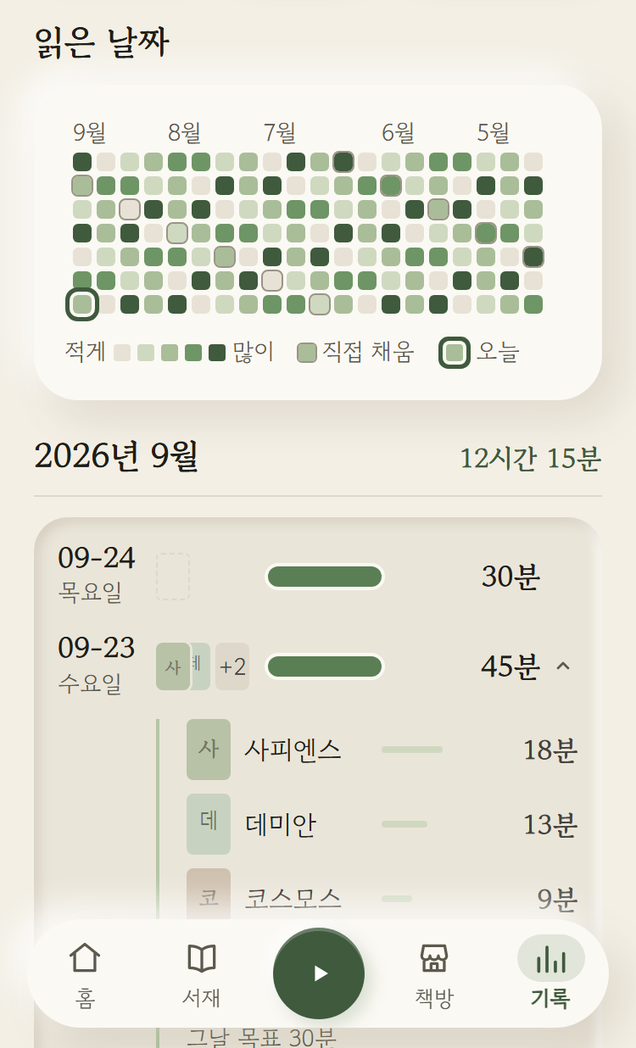
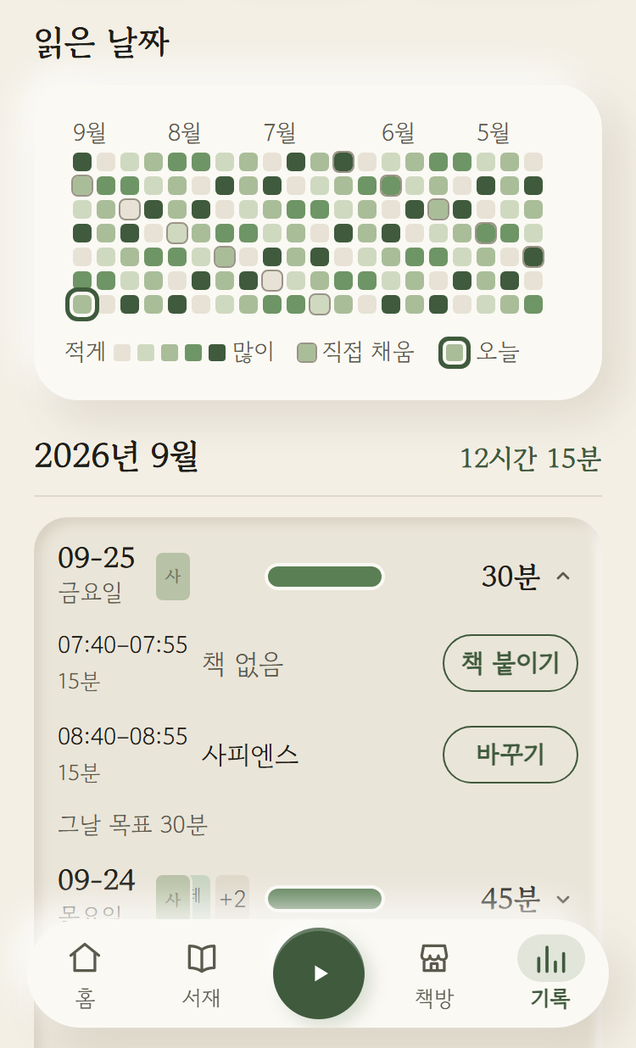
docs(미니앱): 스토어 스크린샷 재촬영 — 기록 탭 잔디 + 「측정 한 건씩」 펼침 (#1204)
R2(#1203)로 기록 펼침이 측정 한 건씩 「시각/길이 · 책 · [바꾸기]/[책 붙이기]」
줄로 바뀌어 04-history가 낡았다. 사용자 결정 「잔디도 살리기」대로 잔디와 펼친 날을
한 컷에 담는다.

- 촬영기 04: 측정 줄 >= 2 · [책 붙이기] >= 1이면서 잔디 제목부터 그 날 바닥까지가
  탭바 16px 위에 드는 첫 날을 펼친다. 없으면 죽는다(잔디를 내주는 구도로 안 물러선다).
- 목 픽스처: 그런 날은 목록 첫 줄뿐이라(375x618 실측 여유 526px, 두 건짜리를 어제에
  둬도 약 552px) 오늘을 두 건(책 없음 + 사피엔스, 합 30분 그대로)으로 나눴다.
- 실측: 잔디 제목 12 · 펼친 날 머리 319 · 그날 목표 바닥 497 · 탭바 542.
- 04와 그걸 얹은 10만 갱신. 01 바이트째 동일, 02·08은 드리프트뿐이라 되돌렸다.

Session-Model: claude-opus-5-5

diff --git a/miniapp/src/dev-mock.ts b/miniapp/src/dev-mock.ts
@@ -295,7 +295,10 @@ const clockOf = (iso: string): string => new Date(iso).toTimeString().slice(0, 5
  */
 function readingSessionsAt(offset: number): SessionRow[] {
   const total = LEVELS[offset % LEVELS.length] * 900;
-  const n = total === 0 ? 0 : offset === 1 ? 5 : 1 + (offset % 3);
+  // 오늘(0)은 두 건 — 책 없음 + 책 한 권. 스토어 컷 04가 잔디와 「측정 두 줄 · [책 붙이기]」를 한 컷에 담을 수 있는
+  // 날은 목록 첫 줄뿐이다(한 줄 아래인 어제에 두 줄을 둬도 잔디 제목부터 552px > 탭바 위 526px, 375×618 실측).
+  // 합은 그대로라 잔디·홈은 안 움직인다(홈은 이 줄을 안 읽는다).
+  const n = total === 0 ? 0 : offset === 1 ? 5 : offset === 0 ? 2 : 1 + (offset % 3);
   const seconds = Array.from({ length: n }, () => Math.floor(total / n));
   if (n > 0) seconds[n - 1] += total - seconds.reduce((a, b) => a + b, 0);
   if (n >= 2 && offset % 4 === 2) {

diff --git a/claude-docs/changelog.md b/claude-docs/changelog.md
@@ -1039,3 +1039,4 @@
 | 2026-09-25 | **chore(트러블슈팅): 승격 표시 `promoted:` 소급 18건** — 전역 재발 스캐너 보고서의 「승격 표시 드리프트」 19건을 한 건씩 판정했다: 전역 파일(`~/.claude`)이 그 T를 룰·스킬·원칙의 **근거**로 인용했는지(사례 언급이 아니라). 근거 18건(T-093·103·110·153·154·172·173·179·184·199·201·209·218·236·243·244·246·250)은 프론트매터에 `promoted: <전역 경로>`를 달고 허브 목차를 재생성했다(`-Check` OK 253). T-254는 `hookify/warn-vitest-basic-reporter.md`가 다른 원인(vitest 4 `basic` 리포터 제거)의 룰 본문에서 하네스 오판 사례로만 들어 비근거로 두었다. |
 | 2026-09-25 | **chore(트러블슈팅): 승격 표시 `promoted:` 소급 19건** — 전역 재발 스캐너 보고서의 「승격 표시 드리프트」 19건을 한 건씩 판정했다: 전역 파일(`~/.claude`)이 그 T를 룰·스킬·원칙의 **근거**로 인용했는지(사례 언급이 아니라). 19건 모두(T-093·103·110·153·154·172·173·179·184·199·201·209·218·236·243·244·246·250·254) 근거라 프론트매터에 `promoted: <전역 경로>`를 달고 허브 목차를 재생성했다(`-Check` OK 253). T-254는 처음에 비근거(룰 발동 조건은 vitest 4 `basic` 리포터 제거)로 두었다가 리뷰에서 뒤집었다 — `hookify/warn-vitest-basic-reporter.md` 본문이 T-254에서 온 일반 원칙(돌연변이 결론은 exit code가 아니라 결과 파일의 실패로, 「전부 사살」은 하네스 고장 신호)을 싣고, `docs/claude-md-reference.md`의 돌연변이 절차 승격 기록이 T-254를 근거 사고로 명시한다. |
 | 2026-09-25 | **feat(미니앱): 기록에서 측정 한 건씩 책 붙이기·바꾸기 (독서·공부)** — R2 PR-5(미니앱 기록). 책 없이 잰 측정은 종료 직후 창을 닫으면 미니앱에선 다시 붙일 자리가 없었다. 이제 기록 탭(독서·공부) 날짜를 펼치면 측정 한 건씩 「시각/시간 · 책 · [책 붙이기]/[바꾸기]」가 서고(책 없는 날도 펼친다 · 수동 기록 「직접 기록」 · 60초 미만 「1분 미만」 · 후보 0권이면 버튼 대신 안내), 누르면 교체 시트를 물음만 바꿔 재사용해 붙이고·바꾸고·뗀다(수동 기록은 떼기 없음). 문은 시트를 연 순간 고정한 원장이 고른다 — 두 원장은 id가 겹쳐 서버가 원장 혼동을 못 막는다. 붙이기·종료·태깅 뒤 기록을 다시 받아 기록 탭에서 재고 끝내도 그 줄이 바로 선다. 문구 2곳(태깅 힌트 · 「책 없이」 부제)이 「기록 탭에서 붙일 수 있어요」로 바뀌었다. 목 모드 360px 실측: 가로 넘침 0(scrollWidth 360) · 버튼 오른쪽 326 · 제목 칸 118.9px로 줄마다 같은 자리(줄마다 격자를 두면 시각 칸 폭이 달라 제목 시작점이 흔들려 한 격자로 합쳤다) · 진입·펼침 시트 0 → [책 붙이기] 2 → ✕·딤·뒤로가기 0. PR-4 리뷰 사소 지적 F1~F4 보강(배선 전체 식 단언 · 공부 캐러셀 정규화는 라벨이 아니라 「책 없이」 칸의 `aria-current`로 — 라벨만 보면 돌연변이가 살았다 · 목 `active/book`은 책 검증을 상태 변경보다 먼저). 리뷰 반영: 기록 화면의 재조회 deps(`reloadKey`)와 붙이기 성공 뒤 상태 갱신 식을 소스 단언으로 잠금(돌연변이 5종 전부 1 failed 확인) · 재조회가 성공하면 지난 실패 문구를 걷음 · 측정 줄 손잡이에 어느 줄인지 밝히는 `aria-label`. 미니앱 테스트 43파일 1924건 통과 |
+| 2026-09-25 | **docs(미니앱): 스토어 스크린샷 재촬영 — 기록 탭 「측정 한 건씩」 펼침** — R2(#1203)로 기록 펼침이 책별 합계 줄에서 측정 한 건씩 「시각/길이 · 책 · [바꾸기]/[책 붙이기]」 줄로 바뀌어 04-history가 낡았다. 사용자 결정 「잔디도 살리기」대로 잔디와 펼친 날을 한 컷에 담는다: 촬영기가 **측정 줄 ≥ 2 · [책 붙이기] ≥ 1이면서 잔디 제목부터 그 날 바닥까지가 탭바 16px 위에 드는 첫 날**을 골라 펼치고, 없으면 죽는다(잔디를 내주는 구도로 물러서지 않는다). 그런 날은 목록 첫 줄뿐이라(375×618 실측: 여유 526px · 어제 5건 713px · 두 건짜리를 어제에 둬도 약 552px) 목 픽스처의 오늘을 두 건(책 없음 + 사피엔스, 합 30분 그대로)으로 나눴다. 실측: 잔디 제목 12 · 펼친 날 머리 319 · 「그날 목표」 바닥 497 · 탭바 542. 04와 그걸 얹은 10만 갱신 — 01은 바이트째 동일(픽스처가 홈에 안 닿는 증거), 02(서브픽셀 스크롤)·08(달력 오늘 이동)은 되돌렸다. 미니앱 테스트 43파일 1924건 통과. 콘솔 업로드는 사용자 승인 뒤. |

diff --git a/miniapp/screenshots/README.md b/miniapp/screenshots/README.md
@@ -13,7 +13,7 @@
 | `01-home.png` | 홈 — 인사말·아바타 헤더 + 타이머 카드 + 표지 캐러셀 | 세로 |
 | `02-feed.png` | 홈(아래) — 사람·「소식」·「여백」·「책 뉴스」 피드 박스 | 세로 |
 | `03-library.png` | 서재 — 상태 탭 + 표지 캐러셀 + 인라인 여백 박스 | 세로 |
-| `04-history.png` | 기록 — 잔디 + 날짜별 기록(여러 권 읽은 첫 날은 펼친 상태) | 세로 |
+| `04-history.png` | 기록 — 잔디 + 9월 날짜별 기록, 오늘(측정 두 건 · 하나는 「책 없음」)을 펼쳐 「시각/길이 · 책 · [책 붙이기]/[바꾸기]」 줄과 「그날 목표」까지 | 세로 |
 | `05-goal.png` | 목표 — 시/분 휠 피커 | 세로 |
 | `06-study-home.png` | 공부 홈 — 「독서\|공부」 토글이 공부로 선 파랑 타이머 카드 + 「무엇을 공부할까요?」 표지 캐러셀 + 「회당 50분 · 바꾸기」(인사말은 화면 밖) | 세로 |
 | `07-study-library.png` | 공부 서재 — 「N독」 칩 + 「N시간 공부」 누적 시간 칩 + 「회독 +1」 채움 버튼 | 세로 |
@@ -85,6 +85,22 @@ Soft 값(`#EEF2EB`·`#F9FBF7`·`#D6DFD2`·`#3A4637`)으로 바꿨다 — 폰 그
 「하루 목표 30분 · 바꾸기 ›」 캡션 줄로 바뀌어 히어로가 낮아졌다. 이 자리가 보이는 컷은 01뿐이라 그것과 그걸 얹은 10만 갱신했다.
 02는 diff가 났지만 히어로가 짧아져 스크롤 기준선이 서브픽셀 옮겨진 것뿐(눈으로 같은 화면)이라 되돌렸다. 촬영기의 05 진입 셀렉터도
 옛 「변경」 알약 문구 대신 캡션 줄 표식(`[data-goal-caption] button`)으로 고쳤다 — 안 고치면 05에서 죽는다.
+
+**2026-09-25 재촬영 — R2 기록 탭 측정 한 건씩, 04(+10)만**: #1203으로 기록의 펼침이 「책별 합계 줄」에서 **측정 한 건씩**
+「시각 범위/길이 · 책 제목(없으면 「책 없음」) · [바꾸기]/[책 붙이기]」 줄로 바뀌었고, 측정이 한 건뿐인 날도 펼쳐진다. 펼친 날을
+담는 컷은 04뿐이라 그것과 그걸 얹은 10만 갱신했다. 01(홈)은 **바이트째 그대로**였다 — 대기 상태 홈은 이번 변경에도, 아래 목 픽스처
+변경에도 안 닿는다. 02·08은 diff가 났지만 02는 스크롤 기준선의 서브픽셀 이동(나란히 놓고 눈으로 같은 화면), 08은 달력의 오늘 기준
+이동뿐이라 촬영 전 바이트로 되돌렸고, 배너(10)는 되돌린 02 위에 `--banner`로 다시 조판했다.
+→ **잔디와 펼친 날을 함께 담는다(사용자 결정 「잔디도 살리기」)**: 이 컷이 파는 것은 잔디, 그리고 **측정이 한 건씩 보이고 책 없는 측정에
+[책 붙이기]로 나중에 책을 붙일 수 있다**는 것이다. 촬영기가 날을 차례로 펼쳐 **측정 줄 ≥ 2 · [책 붙이기] ≥ 1이면서 잔디 제목(화면 12px
+아래)부터 그 날 바닥까지가 탭바 16px 위에 드는 첫 날**을 고른다. 그런 날이 없으면 죽는다 — 잔디를 내주는 구도로 물러서지 않는다.
+→ **목 픽스처의 오늘을 두 건으로 나눴다**(`dev-mock.ts` `readingSessionsAt`, 합 30분은 그대로): 잔디와 함께 드는 날은 목록 첫 줄뿐이다.
+375×618 실측으로 탭바 위 여유는 526px인데, 잔디 제목부터 재면 어제(측정 5건)가 713px, 목록 넷째 줄인 두 건짜리 09-21이 658px — 접힌 날
+한 줄·측정 한 줄이 각각 약 54px라 두 건짜리 날을 어제에 둬도 약 552px로 넘친다. 오늘은 원래 한 건(「책 없음」)이었고 둘째 줄로 사피엔스
+15분을 붙였다. 합이 같아 잔디·홈은 안 움직인다(홈은 이 줄을 안 읽고, 01이 바이트째 같은 것이 그 증거).
+→ 실측(촬영기 로그): 잔디 제목 12 · 펼친 날 머리 319 · 「그날 목표 30분」 줄 바닥 497 · 탭바 542(여유 45). 두 줄은
+「07:40–07:55 15분 · 책 없음 · [책 붙이기]」와 「08:40–08:55 15분 · 사피엔스 · [바꾸기]」. 그 아래 09-24 머리가 탭바 뒤로 반쯤 걸치는 것은
+스크롤 화면의 자연스러운 끝이라 그대로 둔다. 옛 구도(어제 5줄을 펼치고 잔디를 내준 채 달 머리를 위에 세운 컷)는 폐기했다.
 
 ## 재촬영 — `shoot.mjs` 한 방
 
